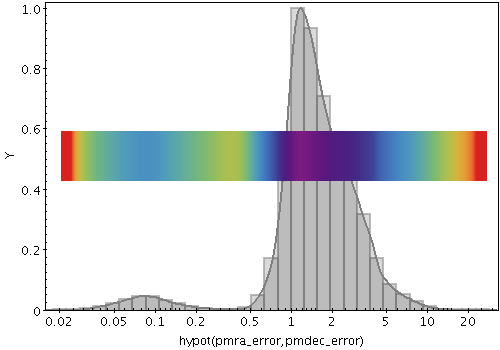
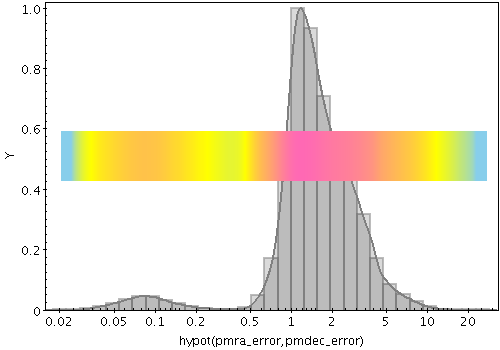
ttools: update densogram example to show custom density map

Changed region(s): [[0.12, 0.3714, 0.99, 0.5143]]

diff --git a/ttools/src/main/uk/ac/starlink/ttools/build/Plot2Example.java b/ttools/src/main/uk/ac/starlink/ttools/build/Plot2Example.java
@@ -1057,7 +1057,8 @@ public class Plot2Example {
                 "*in=" + TName.TGAS, "*x=hypot(pmra_error,pmdec_error)", null,
                 "xlog=true", "*normalise=maximum", null,
                 "color=grey", "layer1=histogram", "layer2=kde", null,
-                "*layer3=densogram", "*densemap3=sron", "*densefunc3=log",
+                "*layer3=densogram", "*densemap3=skyblue-yellow-hotpink",
+                "*densefunc3=log", null,
                 "*size3=50", "*pos3=0.5",
             } ),
             new Plot2Example( "layer-gaussian", c, PlotTask.PLANE,
